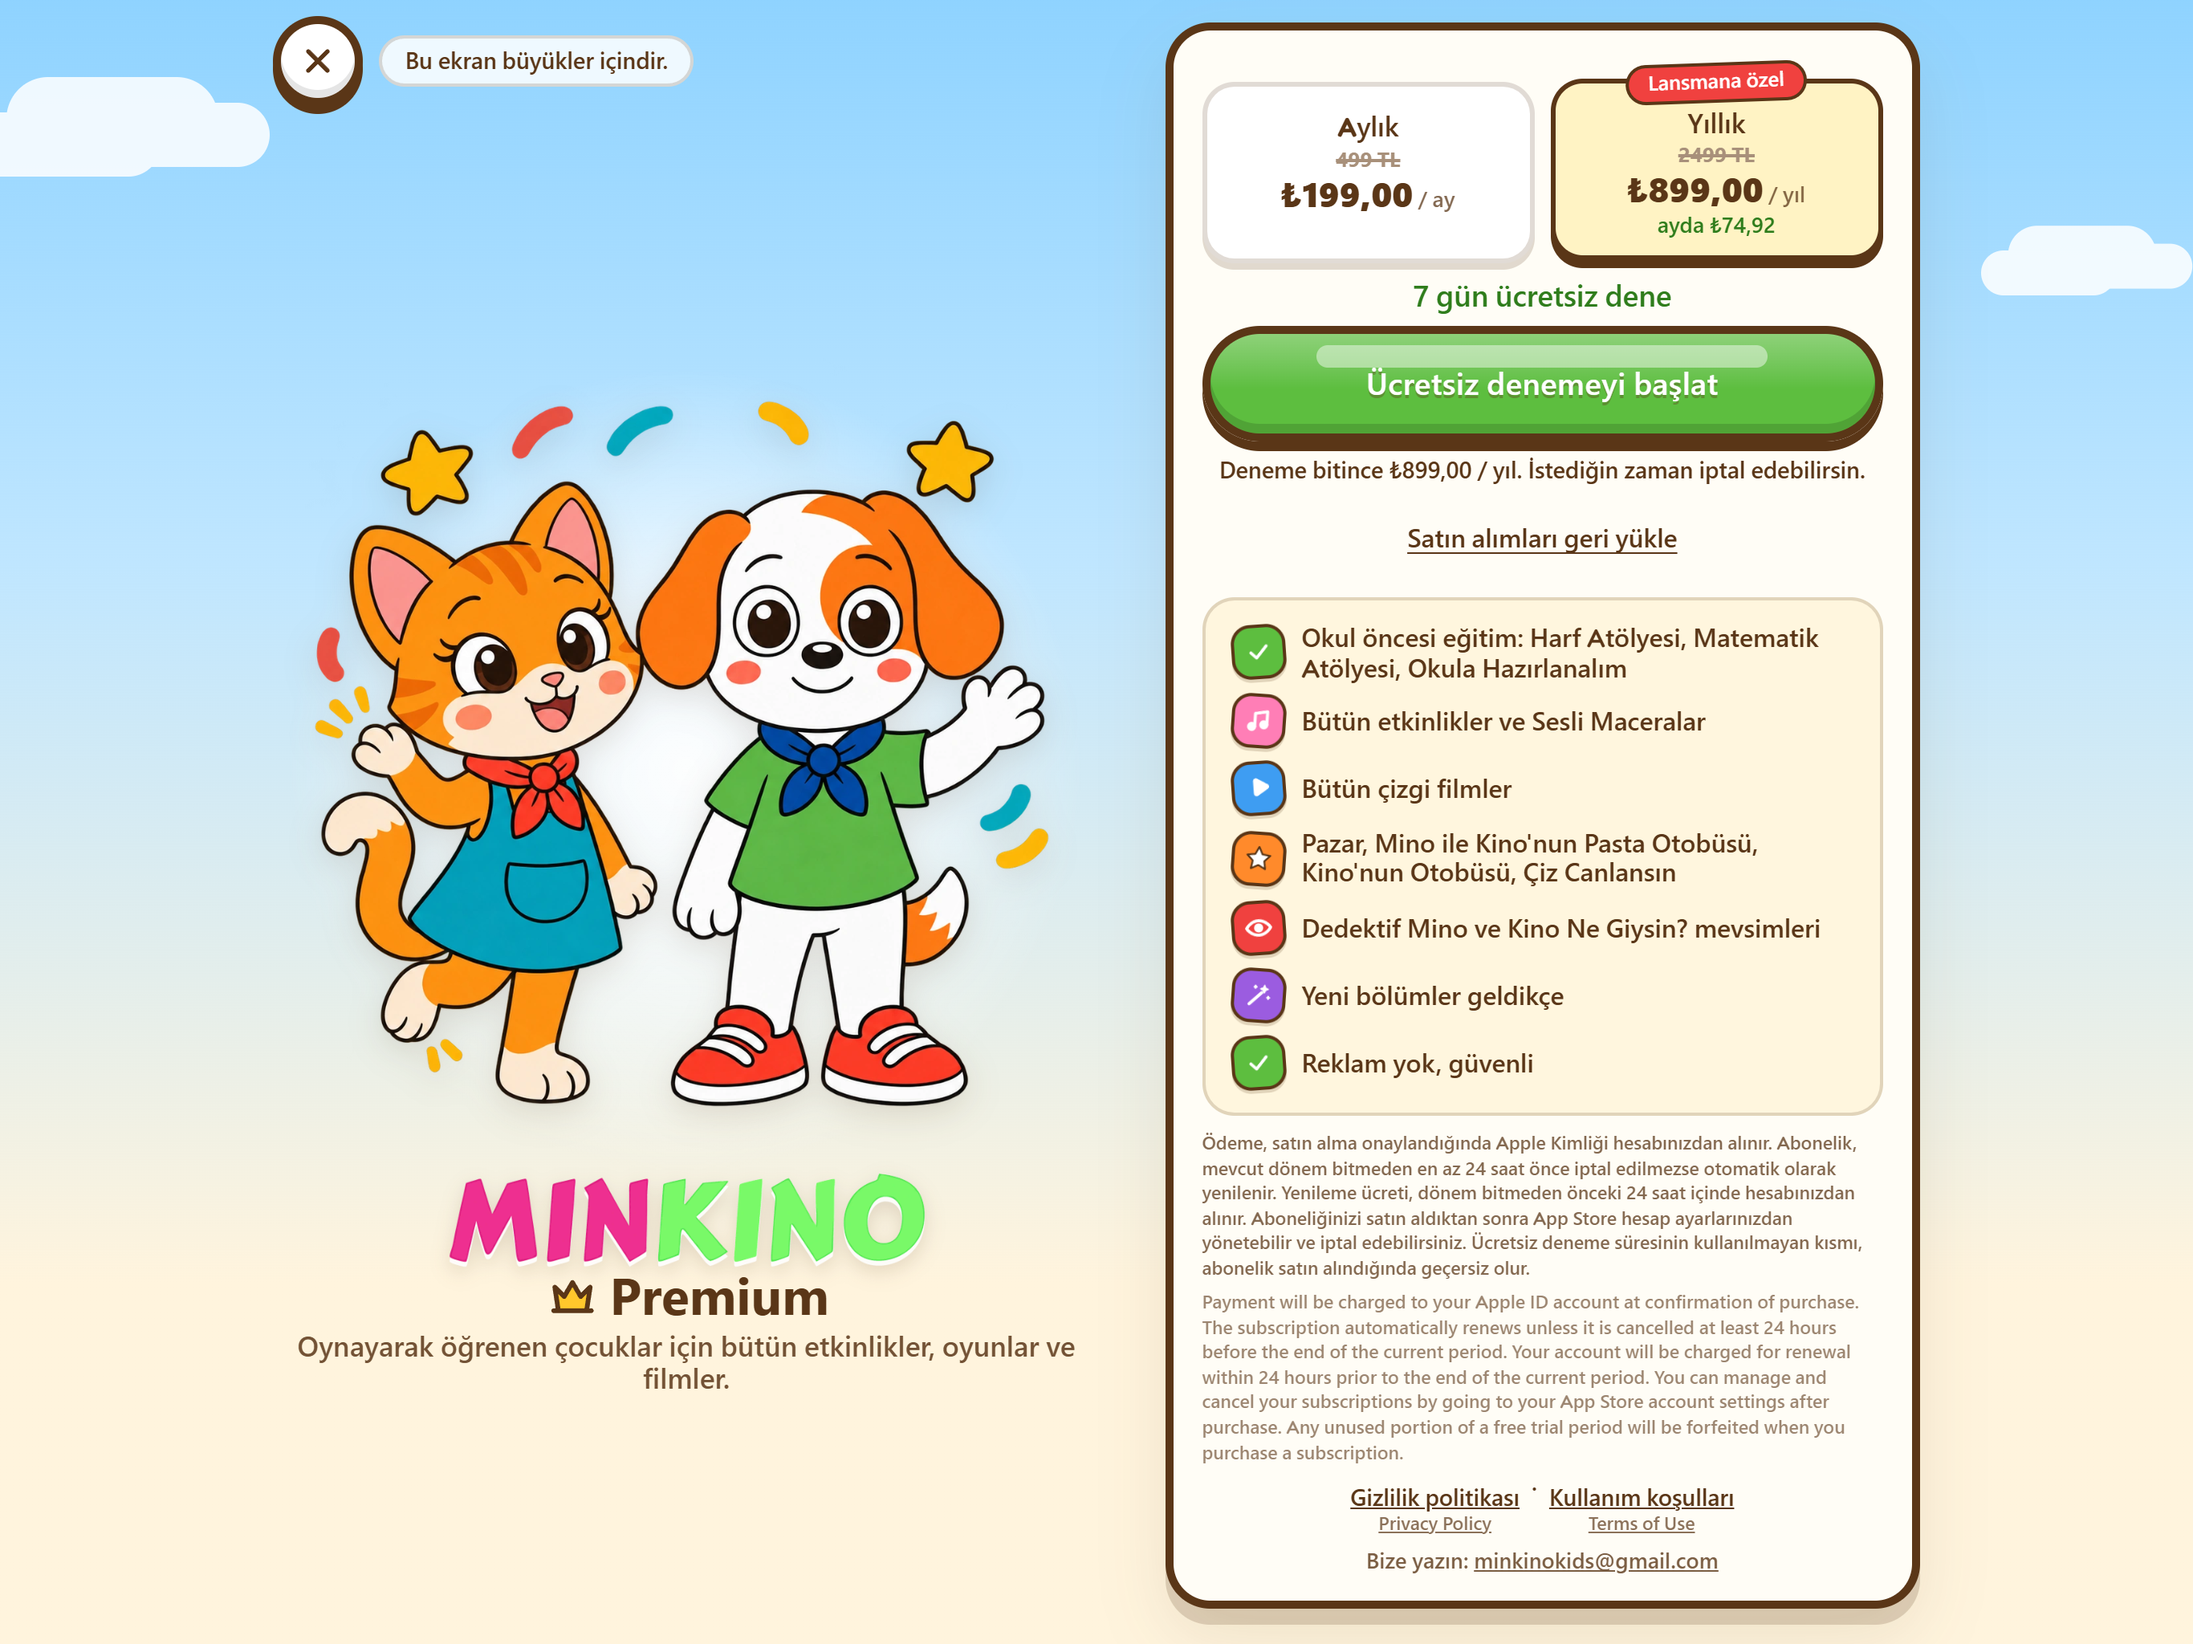
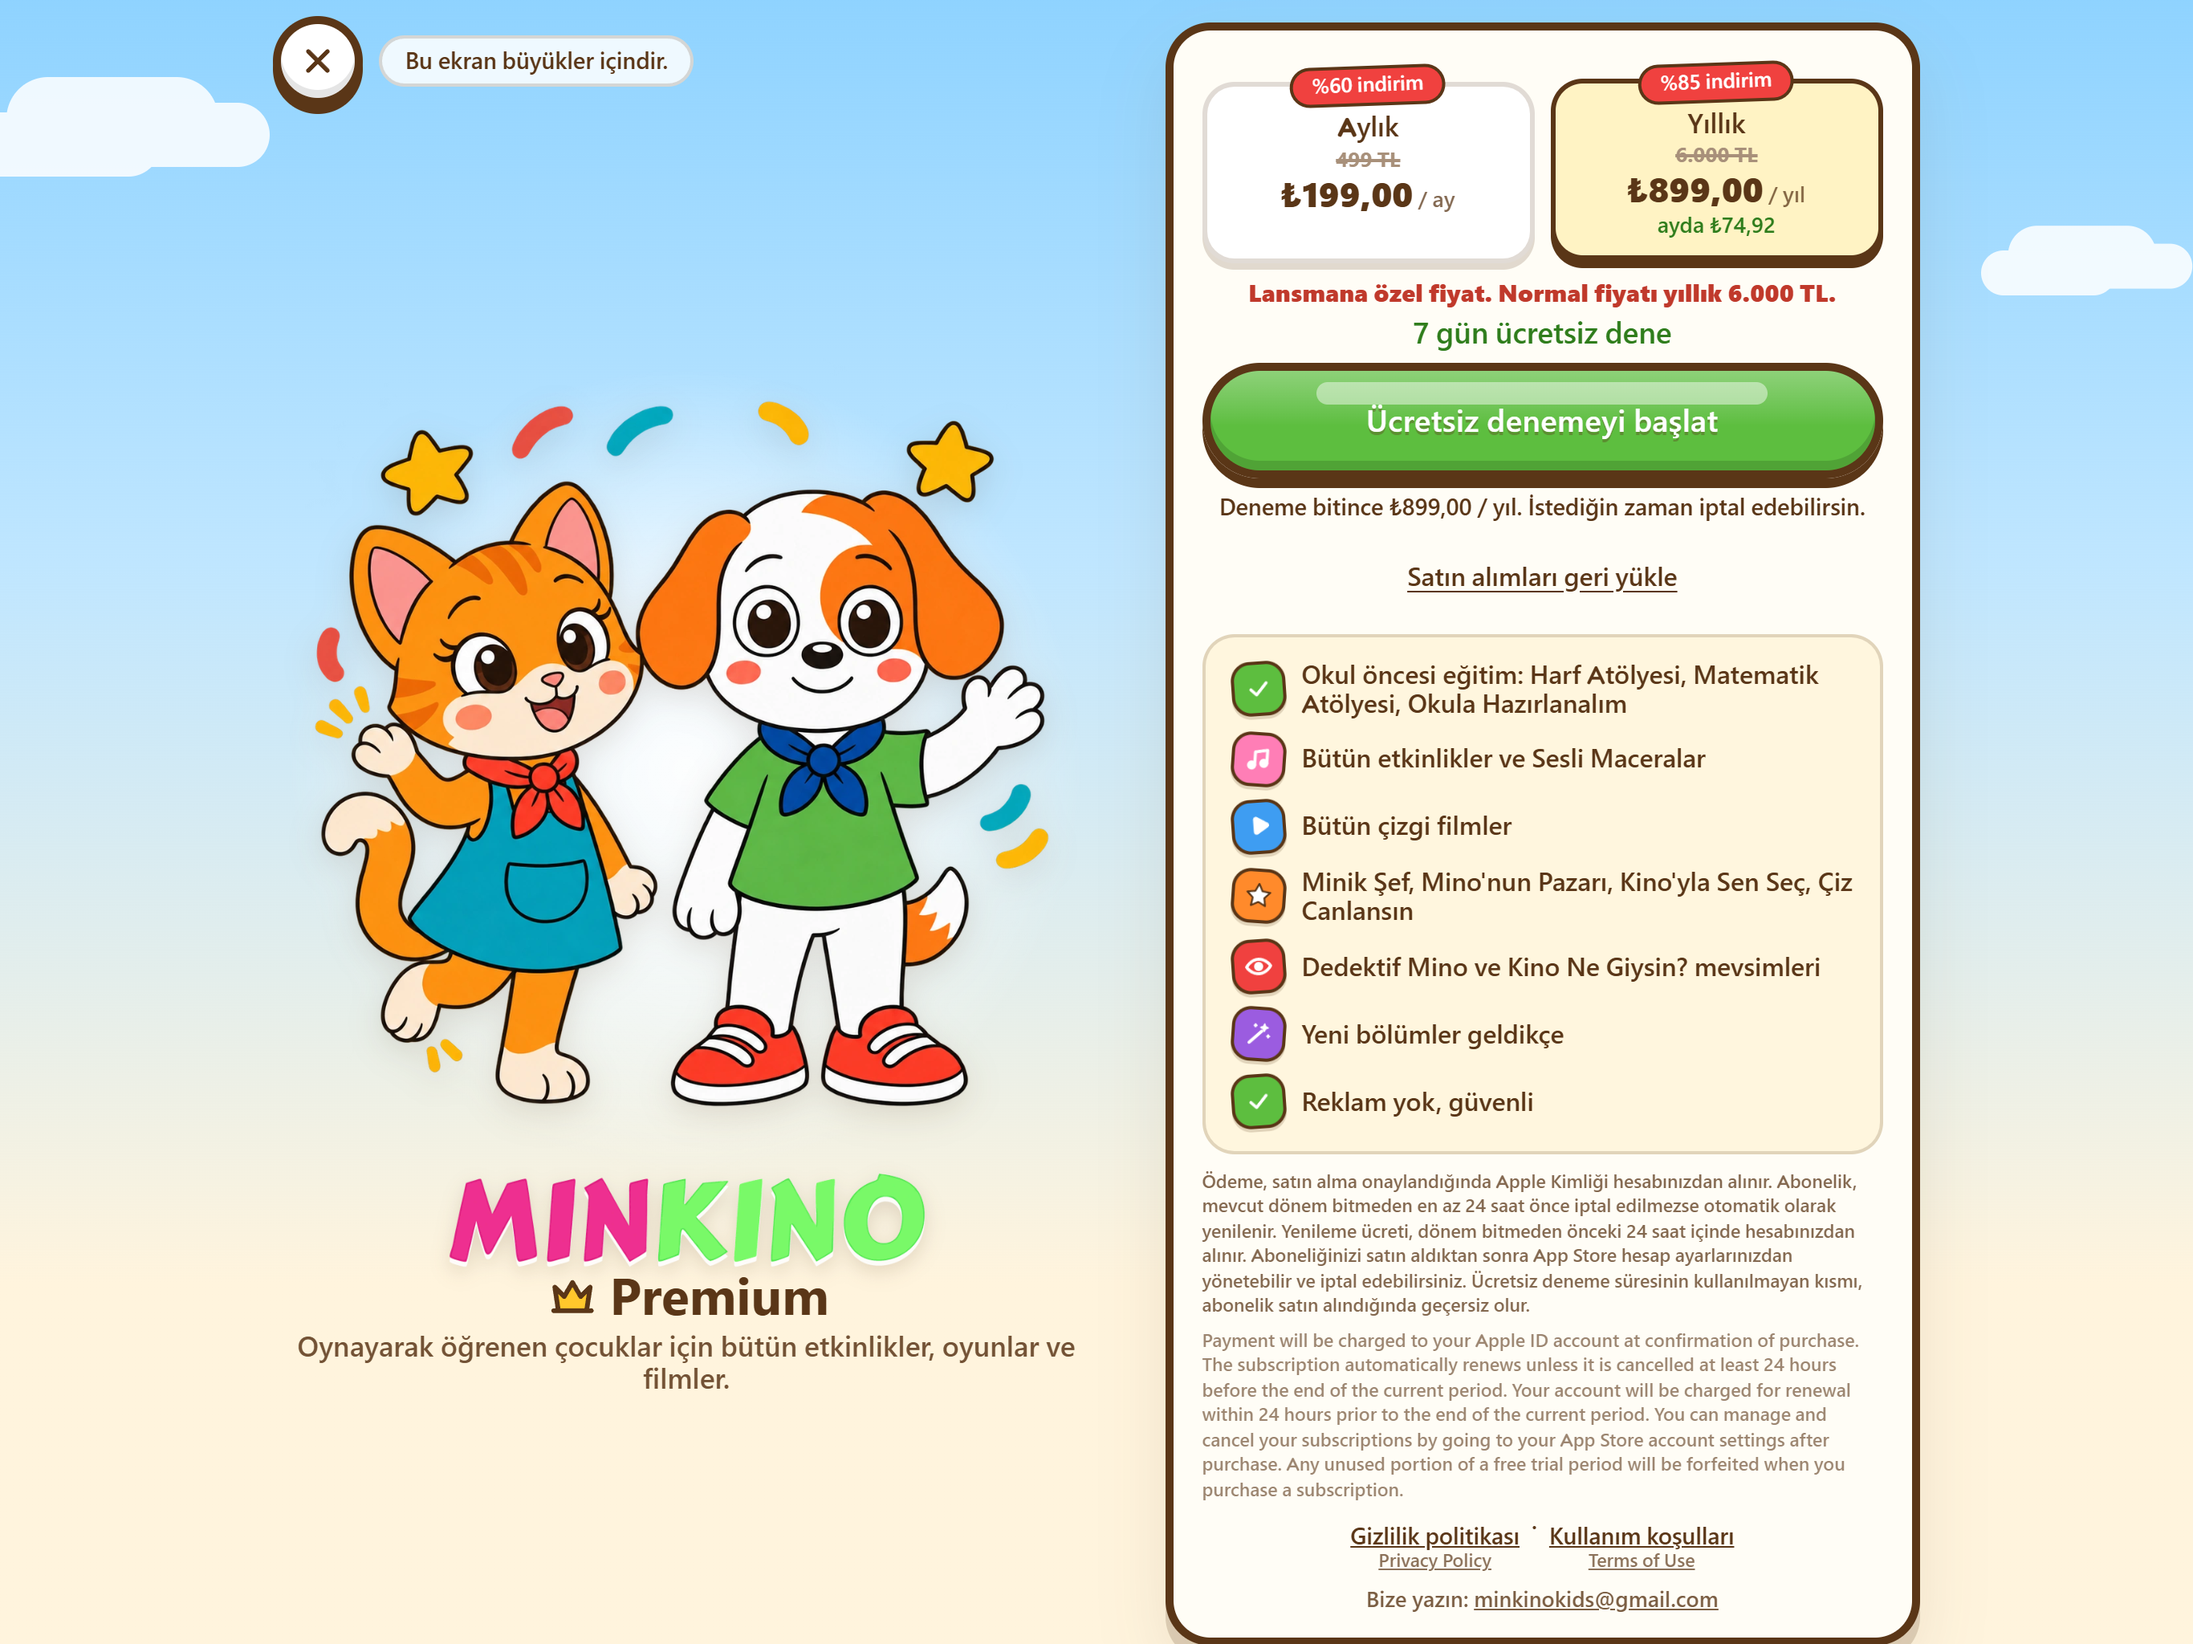
Abonelik ekrani: normal fiyat yillik 6.000 TL, lansman indirimi rozetleri (%85 / %60)

Changed region(s): [[0.5289, 0.1562, 0.9023, 1.0], [0.7467, 0.0312, 0.84, 0.0625], [0.5911, 0.0312, 0.6534, 0.0625]]

diff --git a/src/audio/kayit.ts b/src/audio/kayit.ts
@@ -144,6 +144,8 @@ function tampon(metin: string, secenek: KayitSecenegi = {}): Promise<AudioBuffer
 
 /** Sıradaki cümlelerin kayıtlarını önceden indirip çözer (gecikmesiz çalsın diye). */
 export function onYukle(metinler: (string | undefined | null)[], secenek: KayitSecenegi = {}) {
+  // iOS kayıtları doğrudan uygulama paketinden okur; aynı MP3'ü Web Audio için ayrıca çözme.
+  if (kaydiElemanlaCal()) return;
   // manifest henüz gelmediyse gelince indir (ekran açılır açılmaz çağrılan ön yükleme boşa gitmesin)
   if (!manifestBitti && manifestYukleniyor) {
     void manifestYukleniyor.then(() => onYukle(metinler, secenek));
@@ -160,17 +162,12 @@ export function onYukle(metinler: (string | undefined | null)[], secenek: KayitS
   }
 }
 
-/**
- * Kaydı çalar; bittiğinde true. Kayıt yoksa/çalınamazsa false (çağıran cihaz sesine düşer).
- * secenek.karakter: önce karakterin kendi kaydı (normal hızda); yoksa anlatıcı kaydı secenek.ton hızında.
- */
-/**
- * iOS uygulaması (capacitor://): iPad'de Web Audio motoru 'running' olmuyor ve kayıtlar hiç çalmıyordu (derleme 3,
- * 2026-11-15); aynı cihazda düz <audio> öğesi çalıyor. Motor çalışmıyorken kayıt bu yedek yoldan çalar.
- */
-export const elemanYedegi = (): boolean => typeof location !== 'undefined' && location.protocol === 'capacitor:' && baglam()?.state !== 'running';
+/** iOS uygulamasında konuşma, oyun efektlerinin AudioContext durumundan bağımsız çalar. */
+export const kaydiElemanlaCal = (): boolean => typeof location !== 'undefined' && location.protocol === 'capacitor:';
+type KayitBasladi = (bas: number, gecenSaniye: () => number) => void;
 let calanEleman: HTMLAudioElement | null = null;
-function elemanCal(yol: string, hiz: number, iptalMi: () => boolean, basladi?: (bas: number) => void): Promise<boolean> {
+function elemanCal(yol: string, hiz: number, iptalMi: () => boolean, basladi?: KayitBasladi): Promise<boolean> {
+  if (iptalMi()) return Promise.resolve(true);
   return new Promise((coz) => {
     const a = new Audio(yol);
     let bitti = false;
@@ -180,37 +177,52 @@ function elemanCal(yol: string, hiz: number, iptalMi: () => boolean, basladi?: (
       clearInterval(bak);
       if (calanEleman === a) calanEleman = null;
       if (calanBitti === tamam) calanBitti = null;
+      a.onended = a.onerror = null;
       a.pause();
       coz(ok);
     };
     const tamam = () => son(true);
     const bak = setInterval(() => iptalMi() && son(true), 120);
     a.volume = Math.max(0, Math.min(1, durum.i.ayarlar.seviye));
+    a.muted = durum.i.ayarlar.seviye === 0;
     a.playbackRate = hiz;
     a.onended = tamam;
     a.onerror = () => son(false);
     calanEleman = a;
     calanBitti = tamam;
-    a.play().then(() => basladi?.(baglam()?.currentTime ?? 0), () => son(false));
+    a.play().then(() => {
+      if (!bitti && !iptalMi()) basladi?.(baglam()?.currentTime ?? 0, () => a.currentTime);
+    }, () => son(false));
   });
 }
 
-export async function kayitCal(metin: string, iptalMi: () => boolean, secenek: KayitSecenegi = {}, basladi?: (bas: number) => void): Promise<boolean> {
+async function kayitElemani(kayit: Kayit, hiz: number, iptalMi: () => boolean, basladi?: KayitBasladi): Promise<boolean> {
+  if (typeof kayit === 'string') return elemanCal(kok + kayit, hiz, iptalMi, basladi);
+  const veriParcasi = await veri(kayit);
+  if (iptalMi()) return true;
+  const yol = URL.createObjectURL(new Blob([veriParcasi], { type: 'audio/mpeg' }));
+  try {
+    return await elemanCal(yol, hiz, iptalMi, basladi);
+  } finally {
+    URL.revokeObjectURL(yol);
+  }
+}
+
+export async function kayitCal(metin: string, iptalMi: () => boolean, secenek: KayitSecenegi = {}, basladi?: KayitBasladi): Promise<boolean> {
+  const d = dosya(metin, secenek);
+  if (!d) return false;
+  if (kaydiElemanlaCal() && await kayitElemani(d.kayit, d.hiz, iptalMi, basladi).catch(() => false)) return true;
+  if (iptalMi()) return true;
   const c = baglam();
   const cikis = konusmaCikisi();
-  if (elemanYedegi()) {
-    const d = dosya(metin, secenek);
-    if (d && typeof d.kayit === 'string') return elemanCal(`${kok}${d.kayit}`, d.hiz ?? 1, iptalMi, basladi);
-  }
   if (!c || !cikis || c.state !== 'running') return false;
-  const hiz = dosya(metin, secenek)?.hiz ?? 1;
   const t = await tampon(metin, secenek);
   if (!t || iptalMi()) return !!t;
-  return tamponCal(c, cikis, t, hiz, basladi);
+  return tamponCal(c, cikis, t, d.hiz, basladi);
 }
 
 /** Çözülmüş kaydı konuşma çıkışından çalar (kayitDurdur / sus ile yumuşakça kesilir); bitince true. */
-function tamponCal(c: AudioContext, cikis: GainNode, t: AudioBuffer, hiz: number, basladi?: (bas: number) => void): Promise<boolean> {
+function tamponCal(c: AudioContext, cikis: GainNode, t: AudioBuffer, hiz: number, basladi?: KayitBasladi): Promise<boolean> {
   return new Promise((coz) => {
     const src = c.createBufferSource();
     src.buffer = t;
@@ -230,7 +242,7 @@ function tamponCal(c: AudioContext, cikis: GainNode, t: AudioBuffer, hiz: number
     };
     const bas = c.currentTime;
     src.start();
-    basladi?.(bas);
+    basladi?.(bas, () => (c.currentTime - bas) * hiz);
   });
 }
 
@@ -266,6 +278,7 @@ function dosyaTamponu(yol: string): Promise<AudioBuffer | null> {
 
 /** Sıradaki kayıt dosyalarını önceden indirir (motor açıksa çözer de) */
 export function dosyaOnYukle(yollar: string[]) {
+  if (kaydiElemanlaCal()) return;
   for (const y of yollar) {
     if (baglam()) void dosyaTamponu(y);
     else void dosyaVeri(y).catch(() => undefined);
@@ -276,10 +289,11 @@ export function dosyaOnYukle(yollar: string[]) {
  * Bir kayıt dosyasını çalar; bitince true. Motor açık değilse ya da dosya gelmezse false (kitap bu durumda cihaz
  * sesine düşmez, sessiz geçer). basladi: çalmanın başladığı an (AudioContext saati, sn).
  */
-export async function dosyaCal(yol: string, iptalMi: () => boolean, basladi?: (bas: number) => void): Promise<boolean> {
+export async function dosyaCal(yol: string, iptalMi: () => boolean, basladi?: KayitBasladi): Promise<boolean> {
+  if (kaydiElemanlaCal() && await elemanCal(yol, 1, iptalMi, basladi).catch(() => false)) return true;
+  if (iptalMi()) return true;
   const c = baglam();
   const cikis = konusmaCikisi();
-  if (elemanYedegi()) return elemanCal(yol, 1, iptalMi, basladi);
   if (!c || !cikis || c.state !== 'running') return false;
   const t = await dosyaTamponu(yol);
   if (!t || iptalMi()) return !!t;

diff --git a/src/abonelik/ekran.ts b/src/abonelik/ekran.ts
@@ -57,7 +57,9 @@ const PLAN_AD: Record<PlanId, string> = { aylik: 'Aylık', yillik: 'Yıllık' };
  */
 export const YEDEK_FIYAT: Record<PlanId, string> = { aylik: '199 TL', yillik: '899 TL' };
 /** Lansman öncesi liste fiyatı: plan kartında üstü çizili gösterilir (Barış 2026-11-15) */
-export const NORMAL_FIYAT: Record<PlanId, string> = { aylik: '499 TL', yillik: '2499 TL' };
+export const NORMAL_FIYAT: Record<PlanId, string> = { aylik: '499 TL', yillik: '6.000 TL' };
+/** Lansman indirimi (liste fiyatına göre): yıllık 6.000 → 899 ≈ %85, aylık 499 → 199 ≈ %60 */
+export const LANSMAN_INDIRIM: Record<PlanId, string> = { aylik: '%60 indirim', yillik: '%85 indirim' };
 const YEDEK_DENEME_GUN = 7;
 
 /**
@@ -116,7 +118,7 @@ export function abonelikEkrani(kok: HTMLElement): Promise<boolean> {
       const b = h(
         `button.ab-plan.ab-plan-${id}`,
         { type: 'button', role: 'radio', 'aria-checked': String(id === secili), 'data-plan': id },
-        ...(id === 'yillik' ? [h('span.ab-avantaj', {}, 'Lansmana özel')] : []),
+        h('span.ab-avantaj', {}, LANSMAN_INDIRIM[id]),
         h('span.ab-plan-ad', {}, PLAN_AD[id]),
         h('s.ab-eski', {}, NORMAL_FIYAT[id]),
         h('span.ab-fiyat', {}, h('b', {}, '…'), h('small', {}, ` / ${DONEM[id]}`)),
@@ -269,6 +271,7 @@ export function abonelikEkrani(kok: HTMLElement): Promise<boolean> {
       'div.ab-kart-ic',
       {},
       planKutu,
+      h('p.ab-lansman', {}, 'Lansmana özel fiyat. Normal fiyatı yıllık 6.000 TL.'),
       deneme,
       basla,
       sonraYazi,

diff --git a/src/audio/konusma.ts b/src/audio/konusma.ts
@@ -1,7 +1,7 @@
 import { durum } from '../engine/ilerleme';
 import { TEST_MODU } from '../ui/dom';
 import { normal } from './cumleler';
-import { elemanYedegi, kayitCal, kayitDurdur, kayitlariBekle, kayitVar, onYukle } from './kayit';
+import { kaydiElemanlaCal, kayitCal, kayitDurdur, kayitlariBekle, kayitVar, onYukle } from './kayit';
 import type { KayitSecenegi } from './karakter-ses';
 import { baglam, muzikKis, sesMotorunuAc } from './motor';
 
@@ -172,8 +172,7 @@ export const HAZIRLIK_MS = 1500;
 let motorBeklendi = false;
 
 function motorCalisiyor() {
-  // iOS uygulamasında motor çalışmıyorsa kayıtlar <audio> yedeğiyle çalar (kayit.ts → elemanYedegi)
-  return baglam()?.state === 'running' || elemanYedegi();
+  return baglam()?.state === 'running' || kaydiElemanlaCal();
 }
 
 async function kayitIcinHazirlan(parcalar: string[], secenek: { karakter?: string | null; ton?: number }) {

diff --git a/src/audio/motor.ts b/src/audio/motor.ts
@@ -74,7 +74,7 @@ export function sesMotorunuAc(): AudioContext | null {
       seviyeleriUygula();
     }
     // iOS'ta durum 'interrupted' de olabilir (arama, başka ses, oturum değişimi)
-    if (ctx.state !== 'running') void ctx.resume();
+    if (ctx.state !== 'running') void ctx.resume().catch(() => undefined);
     sessizModuAs();
   } catch {
     ctx = null;
@@ -142,8 +142,8 @@ if (typeof document !== 'undefined')
   document.addEventListener('visibilitychange', () => {
     if (document.hidden) sessizDongu?.pause();
     if (!ctx) return;
-    if (document.hidden) void ctx.suspend();
-    else void ctx.resume();
+    if (document.hidden) void ctx.suspend().catch(() => undefined);
+    else void ctx.resume().catch(() => undefined);
   });
 
 /**

diff --git a/src/abonelik/abonelik.css b/src/abonelik/abonelik.css
@@ -796,3 +796,5 @@
 }
 
 .mk-kok .ab-eski { color: #a8907a; font-size: .82em; font-weight: 700; text-decoration-thickness: 2px; }
+
+.mk-kok .ab-lansman { margin: 6px 0 0; text-align: center; font-weight: 800; color: #c0392b; font-size: .95em; }
